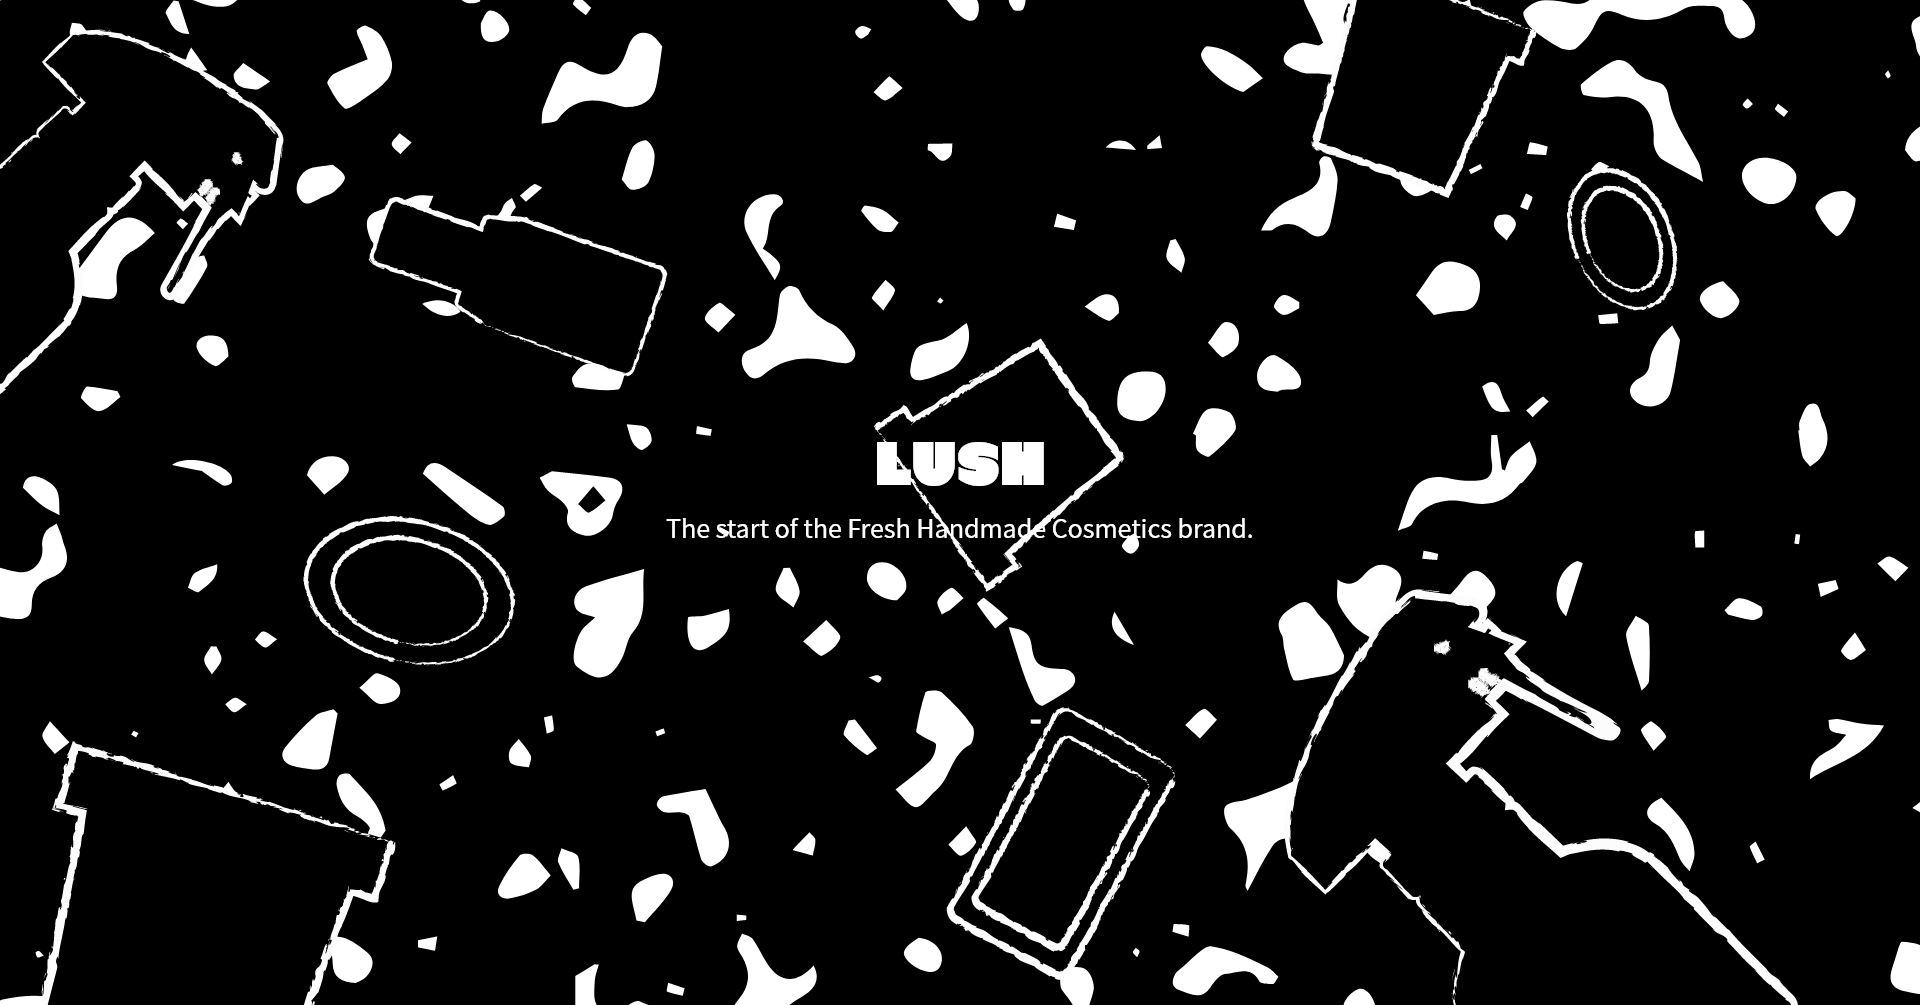
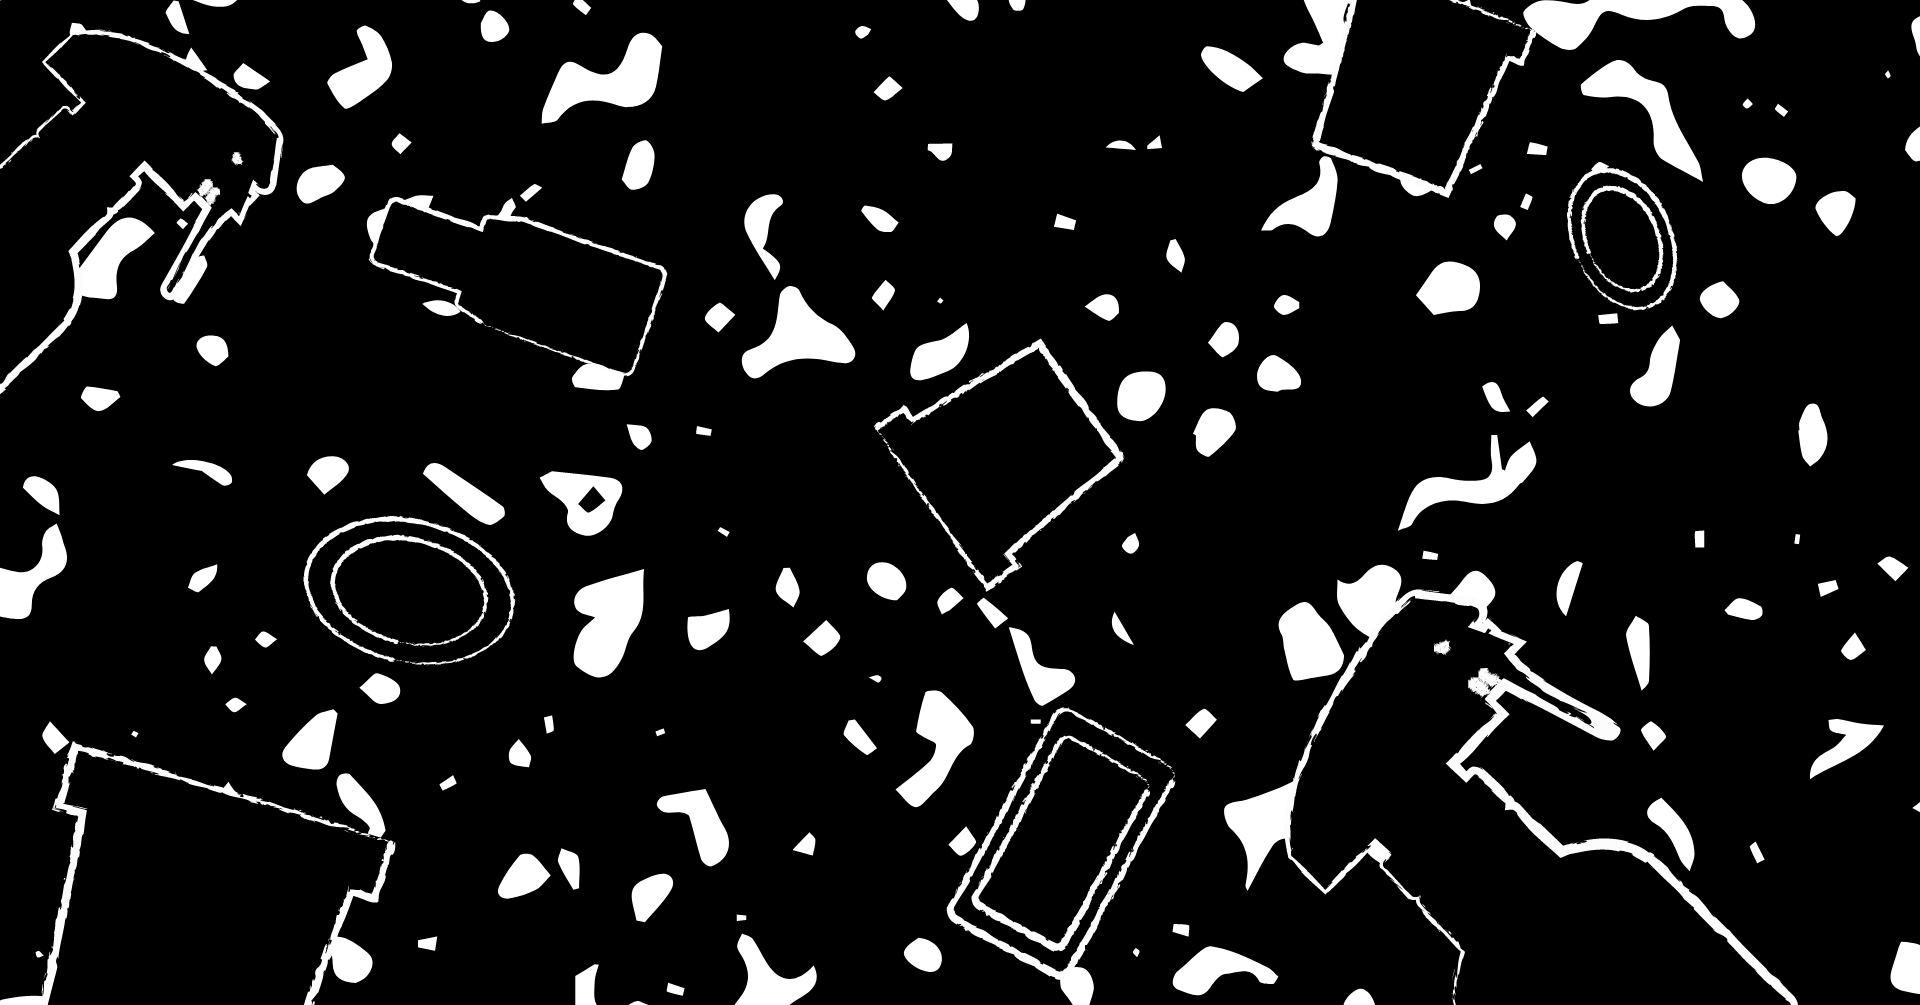
22.09.20 - 메인비주얼 사이즈에 따라 보기 좋게 줄여지지가 않아서 비주얼 텍스트 따로 클래스 만들어 적용 - 코드 정리

Changed region(s): [[0.3438, 0.5244, 0.6562, 0.5552], [0.4375, 0.4318, 0.5625, 0.4935]]

diff --git a/lushMain.html b/lushMain.html
@@ -7,11 +7,12 @@
           content="width=device-width, user-scalable=no, initial-scale=1.0, maximum-scale=1.0, minimum-scale=1.0">
     <meta http-equiv="X-UA-Compatible" content="ie=edge">
     <link rel="stylesheet" href="css/import.css">
-    <!--폰트 페이지 최종적으로 완성되면 css로 정리-->
+    <!--폰트-->
     <link href="//font.elice.io/EliceDigitalBaeum.css" rel="stylesheet"/>
     <link rel="preconnect" href="https://fonts.googleapis.com">
     <link rel="preconnect" href="https://fonts.gstatic.com" crossorigin>
     <link href="https://fonts.googleapis.com/css2?family=Noto+Sans+KR:wght@400;500;700&display=swap" rel="stylesheet">
+    <!--풀페이지-->
     <script src="js/fullpage.min.js"></script>
 </head>
 <body>
@@ -33,10 +34,15 @@
                 </ul>
             </div>
         </div>
-        <h2>Section 0</h2>
+        <!--비주얼 텍스트-->
+        <ul class="v_Title">
+            <li>LUSH</li>
+            <li class="txtGroup">The start of the Fresh Handmade Cosmetics brand.</li>
+        </ul>
     </div>
+
+    <!--con_01-->
     <div class="section s1">
-        <h2>Section 1</h2>
         <div class="basicsInner">
             <ul class="title">
                 <li><img src="images/main/conTilte01.png" alt="컨텐츠-01제목"></li>
@@ -75,12 +81,15 @@
             </div>
         </div>
     </div>
+
+    <!--con_02-->
     <div class="section s2">
-        <h2>Section 2</h2>
         <div class="basicsInner inner-01">
-            <ul class="title">
+            <ul class="title" style="padding-bottom: 10px;">
                 <li class="txt02">러쉬 PICK!</li>
-                <li class="txt">러쉬 추천 제품들을 키워드로 쉽게 찾아보세요!</li>
+                <li class="txt">러쉬 추천 제품들을 키워드로 쉽게 찾아보세요!<br/>
+                    <span style="font-weight: bold; color:red;border:2px dashed; line-height: 64px; padding:8px;">현재 보디스프레이,비건,헤어케어만 구현함</span>
+                </li>
             </ul>
             <div class="tab_content">
                 <input type="radio" name="tabmenu" id="tab01">
@@ -138,8 +147,9 @@
             </div>
         </div>
     </div>
+
+    <!---con_03---->
     <div class="section s3">
-        <h2>Section 3</h2>
         <div class="basicsInner inner-01">
             <ul class="title">
                 <li><img src="images/main/conTilte03.png" alt="컨텐츠-03제목"></li>
@@ -173,8 +183,9 @@
             </div>
         </div>
     </div>
+
+    <!---con_04---->
     <div class="section s4">
-        <h2>Section 4</h2>
         <div class="basicsInner inner-01">
             <ul class="title">
                 <li><img src="images/main/conTilte04.png" alt="컨텐츠-04제목"></li>
@@ -186,6 +197,8 @@
                 <li><img src="images/main/p_25.png" alt=""class="viewImgFix"></li>
             </ul>
         </div>
+
+
         <div class="footer">
             <ul class="one basicsFrame txtGroup">
                 <li><a><img src="images/main/logo.png" alt="러쉬로고" style="padding-top: 7px;"></a></li>

diff --git a/css/common.css b/css/common.css
@@ -7,66 +7,20 @@ a{text-decoration: none;}
 img{border:none;}
 
 
-/*중복코드*/
-.border_style{
-    border-top-left-radius: 30px;
-    border-top-right-radius: 30px;
-    border-bottom-left-radius: 30px;
-    border-bottom-right-radius: 30px;
+/*웹폰트*/
+@font-face {
+    font-family: 'CWDangamAsac-Bold';
+    src: url('https://cdn.jsdelivr.net/gh/projectnoonnu/noonfonts_2108@1.1/CWDangamAsac-Bold.woff') format('woff');
+    font-weight: normal;
+    font-style: normal;
 }
 
-/*Section_02*/
-
-.basicsFont{
-    font-family: 'Noto Sans KR';
-    font-size: 1rem;
-    letter-spacing:-0.9px;
-}
-.center{text-align: center;}
-
-
-/*Section_03*/
-.txtGroup{
-    font-family: 'Noto Sans KR';
-    letter-spacing:-0.9px;
-}
-.plusImgSize{width:90%;}
-.basicsFrame{
-    border:0px solid red;
-    max-width:1200px;
-    margin: 0 auto;
-    display: flex;
-    align-items: center;
-}
-.txtGroup> .txtEdit_01{
-    border:0px solid red;
-    font-size: 23px;
-    font-weight: 800;
-    color:#000;
-}
-.txtGroup>.txtEdit_02{
-    border:0px solid green;
-    font-size: 18px;
-    font-weight: 400;
-    color:#000;
-}
-.txtGroup>.txtEdit_03{
-    border:0px solid blueviolet;
-    font-size: 16px;
-    font-weight: 400;
-    color:#787878;
-    margin-top: 20px;
-    line-height: 27px;
-}
-/*section_04*/
-.viewImgFix{width:95%;}
-
-
-/*header*/
+/*-----header-----*/
 .header{
     width: 100%;
     height:100px;
     background-color: #fff;
+    z-index: 99999;
 }
 .basicsInner{
     max-width: 1380px;
@@ -105,7 +59,7 @@ img{border:none;}
 }
 
 
-/*footer*/
+/*-----footer-----*/
 .footer{
     width: 100%;
     height: 160px;
@@ -140,3 +94,60 @@ img{border:none;}
     color:#fff;
     font-size: 13px;
 }
+
+
+
+
+/*-------------중복코드---------------*/
+.border_style{
+    border-top-left-radius: 30px;
+    border-top-right-radius: 30px;
+    border-bottom-left-radius: 30px;
+    border-bottom-right-radius: 30px;
+}
+
+/*--con_02_러쉬 Plck!---*/
+
+.basicsFont{
+    font-family: 'Noto Sans KR';
+    font-size: 1rem;
+    letter-spacing:-0.9px;
+}
+.center{text-align: center;}
+
+
+/*-----con_03_plus-----*/
+.txtGroup{
+    font-family: 'Noto Sans KR';
+    letter-spacing:-0.9px;
+}
+.plusImgSize{width:90%;}
+.basicsFrame{
+    border:0px solid red;
+    max-width:1200px;
+    margin: 0 auto;
+    display: flex;
+    align-items: center;
+}
+.txtGroup> .txtEdit_01{
+    border:0px solid red;
+    font-size: 23px;
+    font-weight: 800;
+    color:#000;
+}
+.txtGroup>.txtEdit_02{
+    border:0px solid green;
+    font-size: 18px;
+    font-weight: 400;
+    color:#000;
+}
+.txtGroup>.txtEdit_03{
+    border:0px solid blueviolet;
+    font-size: 16px;
+    font-weight: 400;
+    color:#787878;
+    margin-top: 20px;
+    line-height: 27px;
+}
+/*-----con_04_Review-----*/
+.viewImgFix{width:95%;}

diff --git a/css/lushStyle.css b/css/lushStyle.css
@@ -1,15 +1,32 @@
 /*lushStyle.css*/
 
-h2{color:#555;}
+
+/*--메인 비주얼--*/
 .s0{
     border: 0px solid red;
-    background: url("../images/main/mainVisual.png");
+    background: url("../images/main/mainVisual.png") no-repeat 0 0;
 }
-.s4{
+.v_Title{
+    height: 80%;
+    text-align: center;
+    border: 0px solid red;
+    display: flex;
+    flex-direction: column;
+    justify-content: center;
+}
+.v_Title>li:nth-child(1){
     border:0px solid red;
-    background: url("../images/main/background.png") no-repeat 0 0;
+    font-size:50px;
+    color:#fff;
+    font-family: 'CWDangamAsac-Bold'
+}
+.v_Title>li:nth-child(2){
+    border:0px solid red;
+    color:#fff;
+    font-size:18px;
 }
 
+/* 컨텐츠 제목 */
 .title img{width: 12%;}
 .title>li{text-align: center;}
 .title li.txt{
@@ -31,10 +48,12 @@ h2{color:#555;}
     border: 0px solid red;
     display: flex;
     flex-direction: column;
-    padding-bottom: 40px;
+    padding:40px 0px 40px 0px;
 }
 
-/*---Right&Left_tapMenu---*/
+
+/*---con_01_Lush---*/
+
 .tabMenu{
     border: 0px solid red;
     margin-bottom: 130px;
@@ -83,7 +102,7 @@ h2{color:#555;}
 .con-02-banner a>img{width: 75%;}
 
 
-/*--menuTap---*/
+/*--con_02_러쉬 Plck!---*/
 .inner-01{
     margin-top:20px;
 }
@@ -143,7 +162,9 @@ h2{color:#555;}
 .tab_content input[id="tab07"]:checked ~ .btn > label[for="tab07"]{background:#333333; color:#fff; font-weight: 500;}
 .tab_content input[id="tab08"]:checked ~ .btn > label[for="tab08"]{background:#333333; color:#fff; font-weight: 500;}
 
-/*--plus--*/
+
+
+/*--con_03_plus--*/
 .roseJam{
     justify-content: flex-end;
     margin-top:55px;
@@ -151,7 +172,13 @@ h2{color:#555;}
 .txt03{margin:43px 0px 0px 49px;}
 .txt04{margin:85px 130px 0px 0px;}
 
-/*--Review--*/
+
+
+/*--con_04_Review--*/
+.s4{
+    border:0px solid red;
+    background: url("../images/main/background.png") no-repeat 0 0;
+}
 .viewGroup{
     justify-content: center;
     cursor:pointer;
